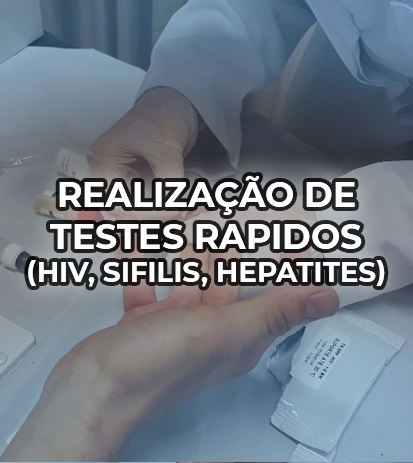
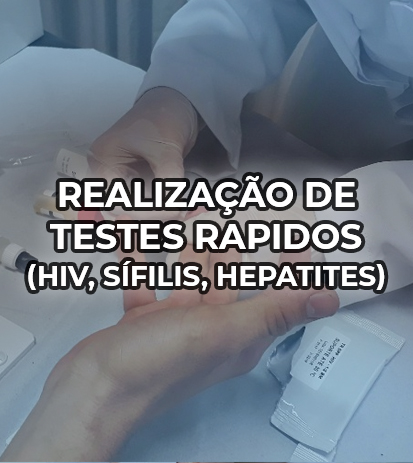
spelling mistakes corrected

Changed region(s): [[0.0581, 0.5443, 0.9588, 0.635]]

diff --git a/src/components/Professionals.jsx b/src/components/Professionals.jsx
@@ -3,16 +3,16 @@ import styles from "./Professionals.module.css";
 
 export function Professionals() {
     const contents = [
-        { title: "MÉDICO(A)", content: "Lívia Nobre" },
+        { title: "MÉDICO(A)", content: "Dra. Lívia Nobre" },
         { title: "ENFERMEIRO(A)", content: "Fernanda Alburquerque" },
         { title: "TÉC. ENFERMAGEM", content: "Tatiane Ribeiro" },
         { title: "TÉC. ENFERMAGEM", content: "Thaís Rodrigues" },
-        { title: "DENTISTA", content: "Loed Aguiar" },
-        { title: "ACS", content: "Luciene" },
-        { title: "ACS", content: "Edinalva" },
+        { title: "DENTISTA", content: "Joeder Aguiar" },
+        { title: "AGENTE COMUNITÁRIO DE SAÚDE (ACS)", content: "Luciene" },
+        { title: "AGENTE COMUNITÁRIO DE SAÚDE (ACS)", content: "Edinalva" },
         { title: "RECEPÇÃO", content: "Tatiane Pereira" },
         { title: "AUXILIAR EM SAÚDE BUCAL (ASB)", content: "Socorro Correia" },
-        { title: "GERENTE", content: "Bruna" },
+        { title: "GERENTE", content: "Bruna Fontenele" },
         { title: "MOTORISTA", content: "Jarilon" },
         { title: "ATENDENTE DE FAMÁCIA", content: "-" },
         

diff --git a/src/components/Navbar.jsx b/src/components/Navbar.jsx
@@ -26,7 +26,7 @@ export function Navbar() {
     const [isSticky, setSticky] = useState(false);
     const menuOptions = [
         {
-            text: "Inicio",
+            text: "Início",
             icon: <HomeIcon />,
             link: "#home",
         },
@@ -67,7 +67,7 @@ export function Navbar() {
     return (
         <nav className={`${styles.nav} ${isSticky ? styles.navFixed : ""}`}>
             <div className={styles["navbar-links-container"]}>
-                <AnchorLink href="#home">Inicio</AnchorLink>
+                <AnchorLink href="#home">Início</AnchorLink>
                 <AnchorLink href="#services">Serviços</AnchorLink>
                 <AnchorLink href="#timetable">Horários</AnchorLink>
                 <AnchorLink href="#professionals">Profissionais</AnchorLink>

diff --git a/src/components/OpeningHours.jsx b/src/components/OpeningHours.jsx
@@ -17,7 +17,7 @@ export function OpeningHours() {
                         <strong>7h30 às 11h30</strong> e das{" "}
                         <strong>13h às 17h</strong>. A médica Lívia Nobre atende
                         toda quarta-feira e a enfermeira Fernanda Albuquerque
-                        nós dias restantes . Durante esse período, você pode
+                        nos dias restantes. Durante esse período, você pode
                         marcar consultas, receber vacinas, realizar exames e
                         obter orientações sobre saúde em geral. Lembre-se de que
                         a prevenção é sempre a melhor opção, então não deixe de

diff --git a/src/components/Contact.jsx b/src/components/Contact.jsx
@@ -12,7 +12,7 @@ export function Contact() {
                     <span>Cep: 62375-000</span>
                 </div>
                 <div className={styles["content-box"]}>
-                    <span>Unidade Basica De Saude</span>
+                    <span>Unidade Básica De Saúde</span>
                     <span>CNES: 9465626</span>
                 </div>
             </div>
